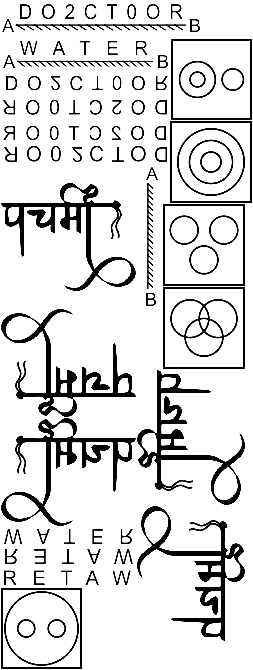
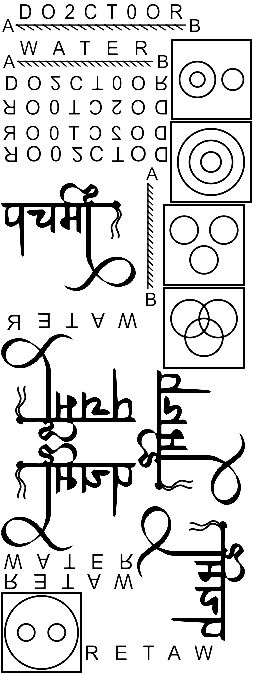
Fixed

diff --git a/img/police/raj/prev/cons/raj_pol_7_nov_2020_s2.css b/img/police/raj/prev/cons/raj_pol_7_nov_2020_s2.css
@@ -8,82 +8,85 @@ Responsive: <div class="yourspritesname"></div>
 
 
 .raj_con_7_nov_2020_s2_25_1 {max-width:81px; max-height:81px; }
-.raj_con_7_nov_2020_s2_25_1::after {content: '\00a0';display: inline-block; width:81px; height:81px; background-position: 99.4186046511628% 6.621392190152801%;background-size: 312.34567901234567% 827.1604938271605%;background-image: url(raj_pol_7_nov_2020_s2.png);padding: 0; }
+.raj_con_7_nov_2020_s2_25_1::after {content: '\00a0';display: inline-block; width:81px; height:81px; background-position: 99.4186046511628% 6.57672849915683%;background-size: 312.34567901234567% 832.0987654320987%;background-image: url(raj_pol_7_nov_2020_s2.png);padding: 0; }
 div.raj_con_7_nov_2020_s2_25_1::after {max-width:81px; width:100%;height:0;padding: 0 0 100% 0;}
 .raj_con_7_nov_2020_s2_25_2 {max-width:82px; max-height:82px; }
-.raj_con_7_nov_2020_s2_25_2::after {content: '\00a0';display: inline-block; width:82px; height:82px; background-position: 99.41520467836257% 20.578231292517007%;background-size: 308.5365853658537% 817.0731707317074%;background-image: url(raj_pol_7_nov_2020_s2.png);padding: 0; }
+.raj_con_7_nov_2020_s2_25_2::after {content: '\00a0';display: inline-block; width:82px; height:82px; background-position: 99.41520467836257% 20.43918918918919%;background-size: 308.5365853658537% 821.9512195121952%;background-image: url(raj_pol_7_nov_2020_s2.png);padding: 0; }
 div.raj_con_7_nov_2020_s2_25_2::after {max-width:82px; width:100%;height:0;padding: 0 0 100% 0;}
 .raj_con_7_nov_2020_s2_25_3 {max-width:82px; max-height:82px; }
-.raj_con_7_nov_2020_s2_25_3::after {content: '\00a0';display: inline-block; width:82px; height:82px; background-position: 95.32163742690058% 34.69387755102041%;background-size: 308.5365853658537% 817.0731707317074%;background-image: url(raj_pol_7_nov_2020_s2.png);padding: 0; }
+.raj_con_7_nov_2020_s2_25_3::after {content: '\00a0';display: inline-block; width:82px; height:82px; background-position: 95.32163742690058% 34.45945945945946%;background-size: 308.5365853658537% 821.9512195121952%;background-image: url(raj_pol_7_nov_2020_s2.png);padding: 0; }
 div.raj_con_7_nov_2020_s2_25_3::after {max-width:82px; width:100%;height:0;padding: 0 0 100% 0;}
 .raj_con_7_nov_2020_s2_25_4 {max-width:82px; max-height:82px; }
-.raj_con_7_nov_2020_s2_25_4::after {content: '\00a0';display: inline-block; width:82px; height:82px; background-position: 95.32163742690058% 48.80952380952381%;background-size: 308.5365853658537% 817.0731707317074%;background-image: url(raj_pol_7_nov_2020_s2.png);padding: 0; }
+.raj_con_7_nov_2020_s2_25_4::after {content: '\00a0';display: inline-block; width:82px; height:82px; background-position: 95.32163742690058% 48.479729729729726%;background-size: 308.5365853658537% 821.9512195121952%;background-image: url(raj_pol_7_nov_2020_s2.png);padding: 0; }
 div.raj_con_7_nov_2020_s2_25_4::after {max-width:82px; width:100%;height:0;padding: 0 0 100% 0;}
 .raj_con_7_nov_2020_s2_26_1 {max-width:81px; max-height:81px; }
-.raj_con_7_nov_2020_s2_26_1::after {content: '\00a0';display: inline-block; width:81px; height:81px; background-position: 99.4186046511628% 6.621392190152801%;background-size: 312.34567901234567% 827.1604938271605%;background-image: url(raj_pol_7_nov_2020_s2.png);padding: 0; }
+.raj_con_7_nov_2020_s2_26_1::after {content: '\00a0';display: inline-block; width:81px; height:81px; background-position: 99.4186046511628% 6.57672849915683%;background-size: 312.34567901234567% 832.0987654320987%;background-image: url(raj_pol_7_nov_2020_s2.png);padding: 0; }
 div.raj_con_7_nov_2020_s2_26_1::after {max-width:81px; width:100%;height:0;padding: 0 0 100% 0;}
 .raj_con_7_nov_2020_s2_26_2 {max-width:81px; max-height:81px; }
-.raj_con_7_nov_2020_s2_26_2::after {content: '\00a0';display: inline-block; width:81px; height:81px; background-position: 0.5813953488372093% 99.830220713073%;background-size: 312.34567901234567% 827.1604938271605%;background-image: url(raj_pol_7_nov_2020_s2.png);padding: 0; }
+.raj_con_7_nov_2020_s2_26_2::after {content: '\00a0';display: inline-block; width:81px; height:81px; background-position: 0.5813953488372093% 99.83136593591905%;background-size: 312.34567901234567% 832.0987654320987%;background-image: url(raj_pol_7_nov_2020_s2.png);padding: 0; }
 div.raj_con_7_nov_2020_s2_26_2::after {max-width:81px; width:100%;height:0;padding: 0 0 100% 0;}
 .raj_con_7_nov_2020_s2_26_3 {max-width:82px; max-height:82px; }
-.raj_con_7_nov_2020_s2_26_3::after {content: '\00a0';display: inline-block; width:82px; height:82px; background-position: 95.32163742690058% 34.69387755102041%;background-size: 308.5365853658537% 817.0731707317074%;background-image: url(raj_pol_7_nov_2020_s2.png);padding: 0; }
+.raj_con_7_nov_2020_s2_26_3::after {content: '\00a0';display: inline-block; width:82px; height:82px; background-position: 95.32163742690058% 34.45945945945946%;background-size: 308.5365853658537% 821.9512195121952%;background-image: url(raj_pol_7_nov_2020_s2.png);padding: 0; }
 div.raj_con_7_nov_2020_s2_26_3::after {max-width:82px; width:100%;height:0;padding: 0 0 100% 0;}
 .raj_con_7_nov_2020_s2_26_4 {max-width:82px; max-height:82px; }
-.raj_con_7_nov_2020_s2_26_4::after {content: '\00a0';display: inline-block; width:82px; height:82px; background-position: 95.32163742690058% 48.80952380952381%;background-size: 308.5365853658537% 817.0731707317074%;background-image: url(raj_pol_7_nov_2020_s2.png);padding: 0; }
+.raj_con_7_nov_2020_s2_26_4::after {content: '\00a0';display: inline-block; width:82px; height:82px; background-position: 95.32163742690058% 48.479729729729726%;background-size: 308.5365853658537% 821.9512195121952%;background-image: url(raj_pol_7_nov_2020_s2.png);padding: 0; }
 div.raj_con_7_nov_2020_s2_26_4::after {max-width:82px; width:100%;height:0;padding: 0 0 100% 0;}
 .raj_con_7_nov_2020_s2_27_1 {max-width:81px; max-height:81px; }
-.raj_con_7_nov_2020_s2_27_1::after {content: '\00a0';display: inline-block; width:81px; height:81px; background-position: 99.4186046511628% 6.621392190152801%;background-size: 312.34567901234567% 827.1604938271605%;background-image: url(raj_pol_7_nov_2020_s2.png);padding: 0; }
+.raj_con_7_nov_2020_s2_27_1::after {content: '\00a0';display: inline-block; width:81px; height:81px; background-position: 99.4186046511628% 6.57672849915683%;background-size: 312.34567901234567% 832.0987654320987%;background-image: url(raj_pol_7_nov_2020_s2.png);padding: 0; }
 div.raj_con_7_nov_2020_s2_27_1::after {max-width:81px; width:100%;height:0;padding: 0 0 100% 0;}
 .raj_con_7_nov_2020_s2_27_2 {max-width:82px; max-height:82px; }
-.raj_con_7_nov_2020_s2_27_2::after {content: '\00a0';display: inline-block; width:82px; height:82px; background-position: 99.41520467836257% 20.578231292517007%;background-size: 308.5365853658537% 817.0731707317074%;background-image: url(raj_pol_7_nov_2020_s2.png);padding: 0; }
+.raj_con_7_nov_2020_s2_27_2::after {content: '\00a0';display: inline-block; width:82px; height:82px; background-position: 99.41520467836257% 20.43918918918919%;background-size: 308.5365853658537% 821.9512195121952%;background-image: url(raj_pol_7_nov_2020_s2.png);padding: 0; }
 div.raj_con_7_nov_2020_s2_27_2::after {max-width:82px; width:100%;height:0;padding: 0 0 100% 0;}
 .raj_con_7_nov_2020_s2_27_3 {max-width:81px; max-height:81px; }
-.raj_con_7_nov_2020_s2_27_3::after {content: '\00a0';display: inline-block; width:81px; height:81px; background-position: 0.5813953488372093% 99.830220713073%;background-size: 312.34567901234567% 827.1604938271605%;background-image: url(raj_pol_7_nov_2020_s2.png);padding: 0; }
+.raj_con_7_nov_2020_s2_27_3::after {content: '\00a0';display: inline-block; width:81px; height:81px; background-position: 0.5813953488372093% 99.83136593591905%;background-size: 312.34567901234567% 832.0987654320987%;background-image: url(raj_pol_7_nov_2020_s2.png);padding: 0; }
 div.raj_con_7_nov_2020_s2_27_3::after {max-width:81px; width:100%;height:0;padding: 0 0 100% 0;}
 .raj_con_7_nov_2020_s2_27_4 {max-width:82px; max-height:82px; }
-.raj_con_7_nov_2020_s2_27_4::after {content: '\00a0';display: inline-block; width:82px; height:82px; background-position: 95.32163742690058% 48.80952380952381%;background-size: 308.5365853658537% 817.0731707317074%;background-image: url(raj_pol_7_nov_2020_s2.png);padding: 0; }
+.raj_con_7_nov_2020_s2_27_4::after {content: '\00a0';display: inline-block; width:82px; height:82px; background-position: 95.32163742690058% 48.479729729729726%;background-size: 308.5365853658537% 821.9512195121952%;background-image: url(raj_pol_7_nov_2020_s2.png);padding: 0; }
 div.raj_con_7_nov_2020_s2_27_4::after {max-width:82px; width:100%;height:0;padding: 0 0 100% 0;}
 .raj_con_7_nov_2020_s2_28 {max-width:161px; max-height:142px; }
-.raj_con_7_nov_2020_s2_28::after {content: '\00a0';display: inline-block; width:161px; height:142px; background-position: 1.0869565217391304% 31.439393939393938%;background-size: 157.14285714285714% 471.83098591549293%;background-image: url(raj_pol_7_nov_2020_s2.png);padding: 0; }
+.raj_con_7_nov_2020_s2_28::after {content: '\00a0';display: inline-block; width:161px; height:142px; background-position: 1.0869565217391304% 31.203007518796994%;background-size: 157.14285714285714% 474.6478873239437%;background-image: url(raj_pol_7_nov_2020_s2.png);padding: 0; }
 div.raj_con_7_nov_2020_s2_28::after {max-width:161px; width:100%;height:0;padding: 0 0 88.19875776397515% 0;}
 .raj_con_7_nov_2020_s2_28_1 {max-width:135px; max-height:108px; }
-.raj_con_7_nov_2020_s2_28_1::after {content: '\00a0';display: inline-block; width:135px; height:108px; background-position: 0.847457627118644% 54.98220640569395%;background-size: 187.40740740740742% 620.3703703703703%;background-image: url(raj_pol_7_nov_2020_s2.png);padding: 0; }
+.raj_con_7_nov_2020_s2_28_1::after {content: '\00a0';display: inline-block; width:135px; height:108px; background-position: 0.847457627118644% 59.01060070671378%;background-size: 187.40740740740742% 624.074074074074%;background-image: url(raj_pol_7_nov_2020_s2.png);padding: 0; }
 div.raj_con_7_nov_2020_s2_28_1::after {max-width:135px; width:100%;height:0;padding: 0 0 80% 0;}
 .raj_con_7_nov_2020_s2_28_2 {max-width:108px; max-height:135px; }
-.raj_con_7_nov_2020_s2_28_2::after {content: '\00a0';display: inline-block; width:108px; height:135px; background-position: 94.48275862068965% 69.1588785046729%;background-size: 234.25925925925927% 496.2962962962963%;background-image: url(raj_pol_7_nov_2020_s2.png);padding: 0; }
+.raj_con_7_nov_2020_s2_28_2::after {content: '\00a0';display: inline-block; width:108px; height:135px; background-position: 94.48275862068965% 68.6456400742115%;background-size: 234.25925925925927% 499.25925925925924%;background-image: url(raj_pol_7_nov_2020_s2.png);padding: 0; }
 div.raj_con_7_nov_2020_s2_28_2::after {max-width:108px; width:100%;height:0;padding: 0 0 125% 0;}
 .raj_con_7_nov_2020_s2_28_3 {max-width:135px; max-height:108px; }
-.raj_con_7_nov_2020_s2_28_3::after {content: '\00a0';display: inline-block; width:135px; height:108px; background-position: 0.847457627118644% 74.37722419928825%;background-size: 187.40740740740742% 620.3703703703703%;background-image: url(raj_pol_7_nov_2020_s2.png);padding: 0; }
+.raj_con_7_nov_2020_s2_28_3::after {content: '\00a0';display: inline-block; width:135px; height:108px; background-position: 0.847457627118644% 78.26855123674912%;background-size: 187.40740740740742% 624.074074074074%;background-image: url(raj_pol_7_nov_2020_s2.png);padding: 0; }
 div.raj_con_7_nov_2020_s2_28_3::after {max-width:135px; width:100%;height:0;padding: 0 0 80% 0;}
 .raj_con_7_nov_2020_s2_28_4 {max-width:108px; max-height:135px; }
-.raj_con_7_nov_2020_s2_28_4::after {content: '\00a0';display: inline-block; width:108px; height:135px; background-position: 94.48275862068965% 94.57943925233644%;background-size: 234.25925925925927% 496.2962962962963%;background-image: url(raj_pol_7_nov_2020_s2.png);padding: 0; }
+.raj_con_7_nov_2020_s2_28_4::after {content: '\00a0';display: inline-block; width:108px; height:135px; background-position: 94.48275862068965% 93.87755102040816%;background-size: 234.25925925925927% 499.25925925925924%;background-image: url(raj_pol_7_nov_2020_s2.png);padding: 0; }
 div.raj_con_7_nov_2020_s2_28_4::after {max-width:108px; width:100%;height:0;padding: 0 0 125% 0;}
 .raj_con_7_nov_2020_s2_29 {max-width:201px; max-height:37px; }
-.raj_con_7_nov_2020_s2_29::after {content: '\00a0';display: inline-block; width:201px; height:37px; background-position: 1.9230769230769231% 0.1579778830963665%;background-size: 125.87064676616916% 1810.8108108108108%;background-image: url(raj_pol_7_nov_2020_s2.png);padding: 0; }
+.raj_con_7_nov_2020_s2_29::after {content: '\00a0';display: inline-block; width:201px; height:37px; background-position: 1.9230769230769231% 0.15698587127158556%;background-size: 125.87064676616916% 1821.6216216216217%;background-image: url(raj_pol_7_nov_2020_s2.png);padding: 0; }
 div.raj_con_7_nov_2020_s2_29::after {max-width:201px; width:100%;height:0;padding: 0 0 18.407960199004975% 0;}
 .raj_con_7_nov_2020_s2_29_1 {max-width:168px; max-height:22px; }
-.raj_con_7_nov_2020_s2_29_1::after {content: '\00a0';display: inline-block; width:168px; height:22px; background-position: 1.1764705882352942% 18.67283950617284%;background-size: 150.5952380952381% 3045.4545454545455%;background-image: url(raj_pol_7_nov_2020_s2.png);padding: 0; }
+.raj_con_7_nov_2020_s2_29_1::after {content: '\00a0';display: inline-block; width:168px; height:22px; background-position: 1.1764705882352942% 18.558282208588956%;background-size: 150.5952380952381% 3063.6363636363635%;background-image: url(raj_pol_7_nov_2020_s2.png);padding: 0; }
 div.raj_con_7_nov_2020_s2_29_1::after {max-width:168px; width:100%;height:0;padding: 0 0 13.095238095238095% 0;}
 .raj_con_7_nov_2020_s2_29_2 {max-width:169px; max-height:22px; }
-.raj_con_7_nov_2020_s2_29_2::after {content: '\00a0';display: inline-block; width:169px; height:22px; background-position: 1.1904761904761905% 11.265432098765432%;background-size: 149.7041420118343% 3045.4545454545455%;background-image: url(raj_pol_7_nov_2020_s2.png);padding: 0; }
+.raj_con_7_nov_2020_s2_29_2::after {content: '\00a0';display: inline-block; width:169px; height:22px; background-position: 1.1904761904761905% 11.196319018404909%;background-size: 149.7041420118343% 3063.6363636363635%;background-image: url(raj_pol_7_nov_2020_s2.png);padding: 0; }
 div.raj_con_7_nov_2020_s2_29_2::after {max-width:169px; width:100%;height:0;padding: 0 0 13.017751479289942% 0;}
 .raj_con_7_nov_2020_s2_29_3 {max-width:168px; max-height:24px; }
-.raj_con_7_nov_2020_s2_29_3::after {content: '\00a0';display: inline-block; width:168px; height:24px; background-position: 1.1764705882352942% 14.860681114551083%;background-size: 150.5952380952381% 2791.6666666666665%;background-image: url(raj_pol_7_nov_2020_s2.png);padding: 0; }
+.raj_con_7_nov_2020_s2_29_3::after {content: '\00a0';display: inline-block; width:168px; height:24px; background-position: 1.1764705882352942% 14.76923076923077%;background-size: 150.5952380952381% 2808.3333333333335%;background-image: url(raj_pol_7_nov_2020_s2.png);padding: 0; }
 div.raj_con_7_nov_2020_s2_29_3::after {max-width:168px; width:100%;height:0;padding: 0 0 14.285714285714286% 0;}
 .raj_con_7_nov_2020_s2_29_4 {max-width:168px; max-height:21px; }
-.raj_con_7_nov_2020_s2_29_4::after {content: '\00a0';display: inline-block; width:168px; height:21px; background-position: 1.1764705882352942% 22.18798151001541%;background-size: 150.5952380952381% 3190.4761904761904%;background-image: url(raj_pol_7_nov_2020_s2.png);padding: 0; }
+.raj_con_7_nov_2020_s2_29_4::after {content: '\00a0';display: inline-block; width:168px; height:21px; background-position: 1.1764705882352942% 22.052067381317%;background-size: 150.5952380952381% 3209.5238095238096%;background-image: url(raj_pol_7_nov_2020_s2.png);padding: 0; }
 div.raj_con_7_nov_2020_s2_29_4::after {max-width:168px; width:100%;height:0;padding: 0 0 12.5% 0;}
 .raj_con_7_nov_2020_s2_30 {max-width:169px; max-height:33px; }
-.raj_con_7_nov_2020_s2_30::after {content: '\00a0';display: inline-block; width:169px; height:33px; background-position: 1.1904761904761905% 6.122448979591836%;background-size: 149.7041420118343% 2030.3030303030303%;background-image: url(raj_pol_7_nov_2020_s2.png);padding: 0; }
+.raj_con_7_nov_2020_s2_30::after {content: '\00a0';display: inline-block; width:169px; height:33px; background-position: 1.1904761904761905% 6.084243369734789%;background-size: 149.7041420118343% 2042.4242424242425%;background-image: url(raj_pol_7_nov_2020_s2.png);padding: 0; }
 div.raj_con_7_nov_2020_s2_30::after {max-width:169px; width:100%;height:0;padding: 0 0 19.526627218934912% 0;}
 .raj_con_7_nov_2020_s2_30_1 {max-width:131px; max-height:20px; }
-.raj_con_7_nov_2020_s2_30_1::after {content: '\00a0';display: inline-block; width:131px; height:20px; background-position: 0.819672131147541% 87.23076923076923%;background-size: 193.12977099236642% 3350%;background-image: url(raj_pol_7_nov_2020_s2.png);padding: 0; }
+.raj_con_7_nov_2020_s2_30_1::after {content: '\00a0';display: inline-block; width:131px; height:20px; background-position: 68.0327868852459% 98.1651376146789%;background-size: 193.12977099236642% 3370%;background-image: url(raj_pol_7_nov_2020_s2.png);padding: 0; }
 div.raj_con_7_nov_2020_s2_30_1::after {max-width:131px; width:100%;height:0;padding: 0 0 15.267175572519085% 0;}
 .raj_con_7_nov_2020_s2_30_2 {max-width:134px; max-height:19px; }
-.raj_con_7_nov_2020_s2_30_2::after {content: '\00a0';display: inline-block; width:134px; height:19px; background-position: 0.8403361344537815% 80.95238095238095%;background-size: 188.80597014925374% 3526.315789473684%;background-image: url(raj_pol_7_nov_2020_s2.png);padding: 0; }
+.raj_con_7_nov_2020_s2_30_2::after {content: '\00a0';display: inline-block; width:134px; height:19px; background-position: 0.8403361344537815% 84.27480916030534%;background-size: 188.80597014925374% 3547.3684210526317%;background-image: url(raj_pol_7_nov_2020_s2.png);padding: 0; }
 div.raj_con_7_nov_2020_s2_30_2::after {max-width:134px; width:100%;height:0;padding: 0 0 14.17910447761194% 0;}
 .raj_con_7_nov_2020_s2_30_3 {max-width:134px; max-height:19px; }
-.raj_con_7_nov_2020_s2_30_3::after {content: '\00a0';display: inline-block; width:134px; height:19px; background-position: 0.8403361344537815% 84.02457757296467%;background-size: 188.80597014925374% 3526.315789473684%;background-image: url(raj_pol_7_nov_2020_s2.png);padding: 0; }
+.raj_con_7_nov_2020_s2_30_3::after {content: '\00a0';display: inline-block; width:134px; height:19px; background-position: 0.8403361344537815% 87.32824427480917%;background-size: 188.80597014925374% 3547.3684210526317%;background-image: url(raj_pol_7_nov_2020_s2.png);padding: 0; }
 div.raj_con_7_nov_2020_s2_30_3::after {max-width:134px; width:100%;height:0;padding: 0 0 14.17910447761194% 0;}
+.raj_con_7_nov_2020_s2_30_4 {max-width:142px; max-height:24px; }
+.raj_con_7_nov_2020_s2_30_4::after {content: '\00a0';display: inline-block; width:142px; height:24px; background-position: 0.9009009009009009% 47.53846153846154%;background-size: 178.16901408450704% 2808.3333333333335%;background-image: url(raj_pol_7_nov_2020_s2.png);padding: 0; }
+div.raj_con_7_nov_2020_s2_30_4::after {max-width:142px; width:100%;height:0;padding: 0 0 16.901408450704224% 0;}
 
-/* $TexturePacker:SmartUpdate:89dd9ca0600da0cb2d503b67f511f981:ee6c5cc2f74821b3ff1247f106010a86:5649dab8224d568edf353cd8fb3c32d0$ */
+/* $TexturePacker:SmartUpdate:b41287a70c789dc6e1a497b6d2acde12:92e956dd36c47d94461f26792fe008df:5649dab8224d568edf353cd8fb3c32d0$ */
